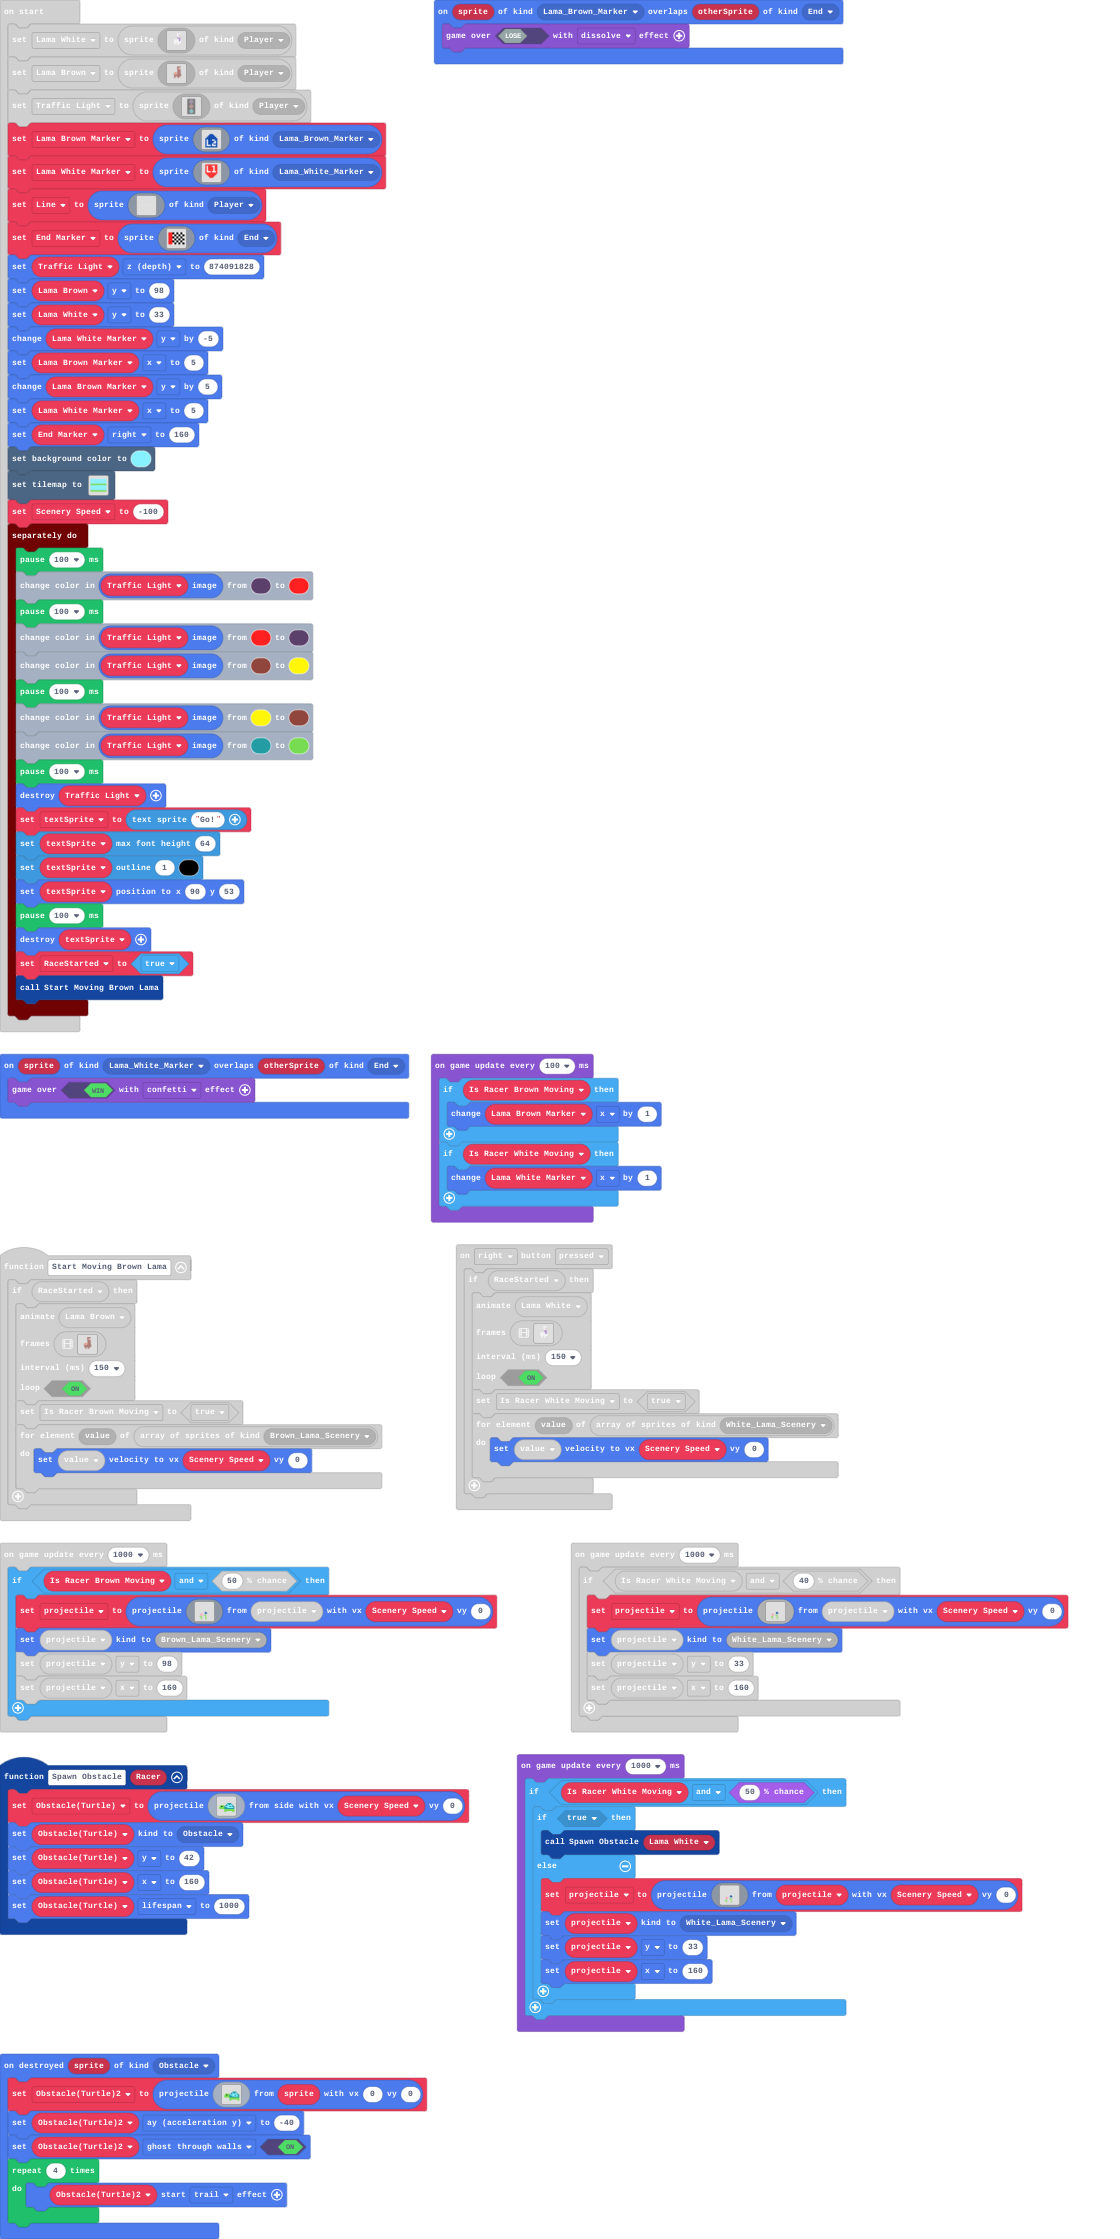
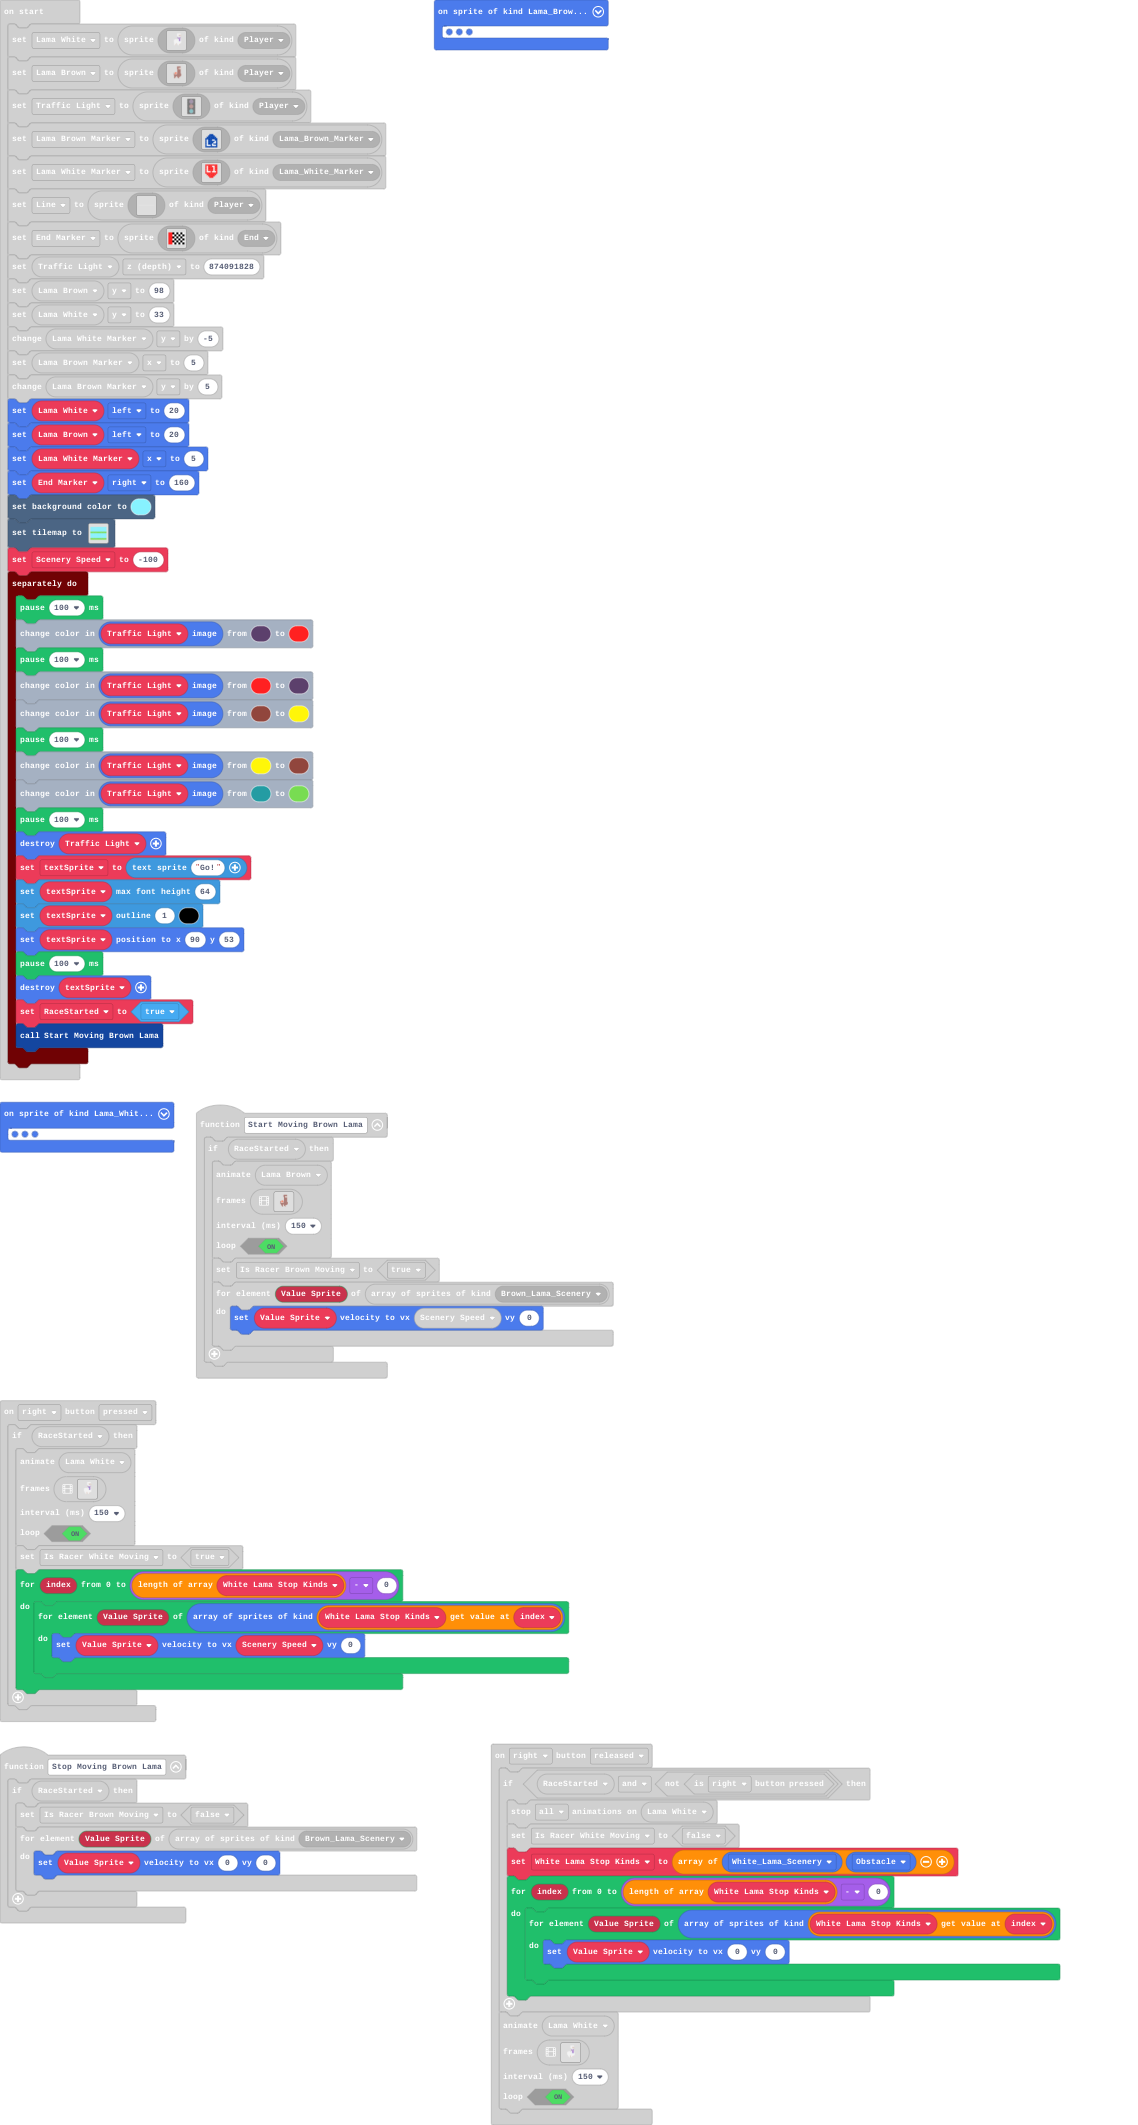
Update main.blocks, main.ts, images.g.jres, images.g.ts

diff --git a/main.ts b/main.ts
@@ -221,8 +221,8 @@ function Start_Moving_Brown_Lama () {
         true
         )
         Is_Racer_Brown_Moving = true
-        for (let value of sprites.allOfKind(SpriteKind.Brown_Lama_Scenery)) {
-            value.setVelocity(Scenery_Speed, 0)
+        for (let Value_Sprite of sprites.allOfKind(SpriteKind.Brown_Lama_Scenery)) {
+            Value_Sprite.setVelocity(Scenery_Speed, 0)
         }
     }
 }
@@ -230,8 +230,11 @@ controller.right.onEvent(ControllerButtonEvent.Released, function () {
     if (RaceStarted && !(controller.right.isPressed())) {
         animation.stopAnimation(animation.AnimationTypes.All, Lama_White)
         Is_Racer_White_Moving = false
-        for (let value of sprites.allOfKind(SpriteKind.White_Lama_Scenery)) {
-            value.setVelocity(0, 0)
+        White_Lama_Stop_Kinds = [SpriteKind.White_Lama_Scenery, SpriteKind.Obstacle]
+        for (let index = 0; index <= White_Lama_Stop_Kinds.length - 0; index++) {
+            for (let Value_Sprite of sprites.allOfKind(White_Lama_Stop_Kinds[index])) {
+                Value_Sprite.setVelocity(0, 0)
+            }
         }
     }
     animation.runImageAnimation(
@@ -520,8 +523,10 @@ controller.right.onEvent(ControllerButtonEvent.Pressed, function () {
         true
         )
         Is_Racer_White_Moving = true
-        for (let value of sprites.allOfKind(SpriteKind.White_Lama_Scenery)) {
-            value.setVelocity(Scenery_Speed, 0)
+        for (let index = 0; index <= White_Lama_Stop_Kinds.length - 0; index++) {
+            for (let Value_Sprite of sprites.allOfKind(White_Lama_Stop_Kinds[index])) {
+                Value_Sprite.setVelocity(Scenery_Speed, 0)
+            }
         }
     }
 })
@@ -534,14 +539,15 @@ sprites.onOverlap(SpriteKind.Lama_Brown_Marker, SpriteKind.End, function (sprite
 function Stop_Moving_Brown_Lama () {
     if (RaceStarted) {
         Is_Racer_Brown_Moving = false
-        for (let value of sprites.allOfKind(SpriteKind.Brown_Lama_Scenery)) {
-            value.setVelocity(0, 0)
+        for (let Value_Sprite of sprites.allOfKind(SpriteKind.Brown_Lama_Scenery)) {
+            Value_Sprite.setVelocity(0, 0)
         }
     }
 }
 let projectile: Sprite = null
 let ObstacleTurtle: Sprite = null
 let ObstacleTurtle2: Sprite = null
+let White_Lama_Stop_Kinds: number[] = []
 let Is_Racer_White_Moving = false
 let Is_Racer_Brown_Moving = false
 let RaceStarted = false
@@ -701,6 +707,8 @@ Lama_White.y = 33
 Lama_White_Marker.y += -5
 Lama_Brown_Marker.x = 5
 Lama_Brown_Marker.y += 5
+Lama_White.left = 20
+Lama_Brown.left = 20
 Lama_White_Marker.x = 5
 End_Marker.right = 160
 scene.setBackgroundColor(9)

diff --git a/images.g.ts b/images.g.ts
@@ -369,6 +369,38 @@ namespace myImages {
 .........7.......7............
 .........7.......7............
 `;
+            case "image3":return img`
+..............................
+..............................
+..............................
+..............................
+..............................
+..............................
+..............................
+..............................
+..............................
+..............................
+..............................
+..............................
+..............................
+..............................
+..............................
+.................8............
+................888...........
+...............88588..........
+.........3......888...........
+........333......8............
+.......33533.....7............
+........333...7777............
+.........3.....777............
+.........7......77............
+......7777.......7............
+.......777.......7............
+........77.......777..........
+.........7.......77...........
+.........7.......7............
+.........7.......7............
+`;
         }
         return null;
     })
